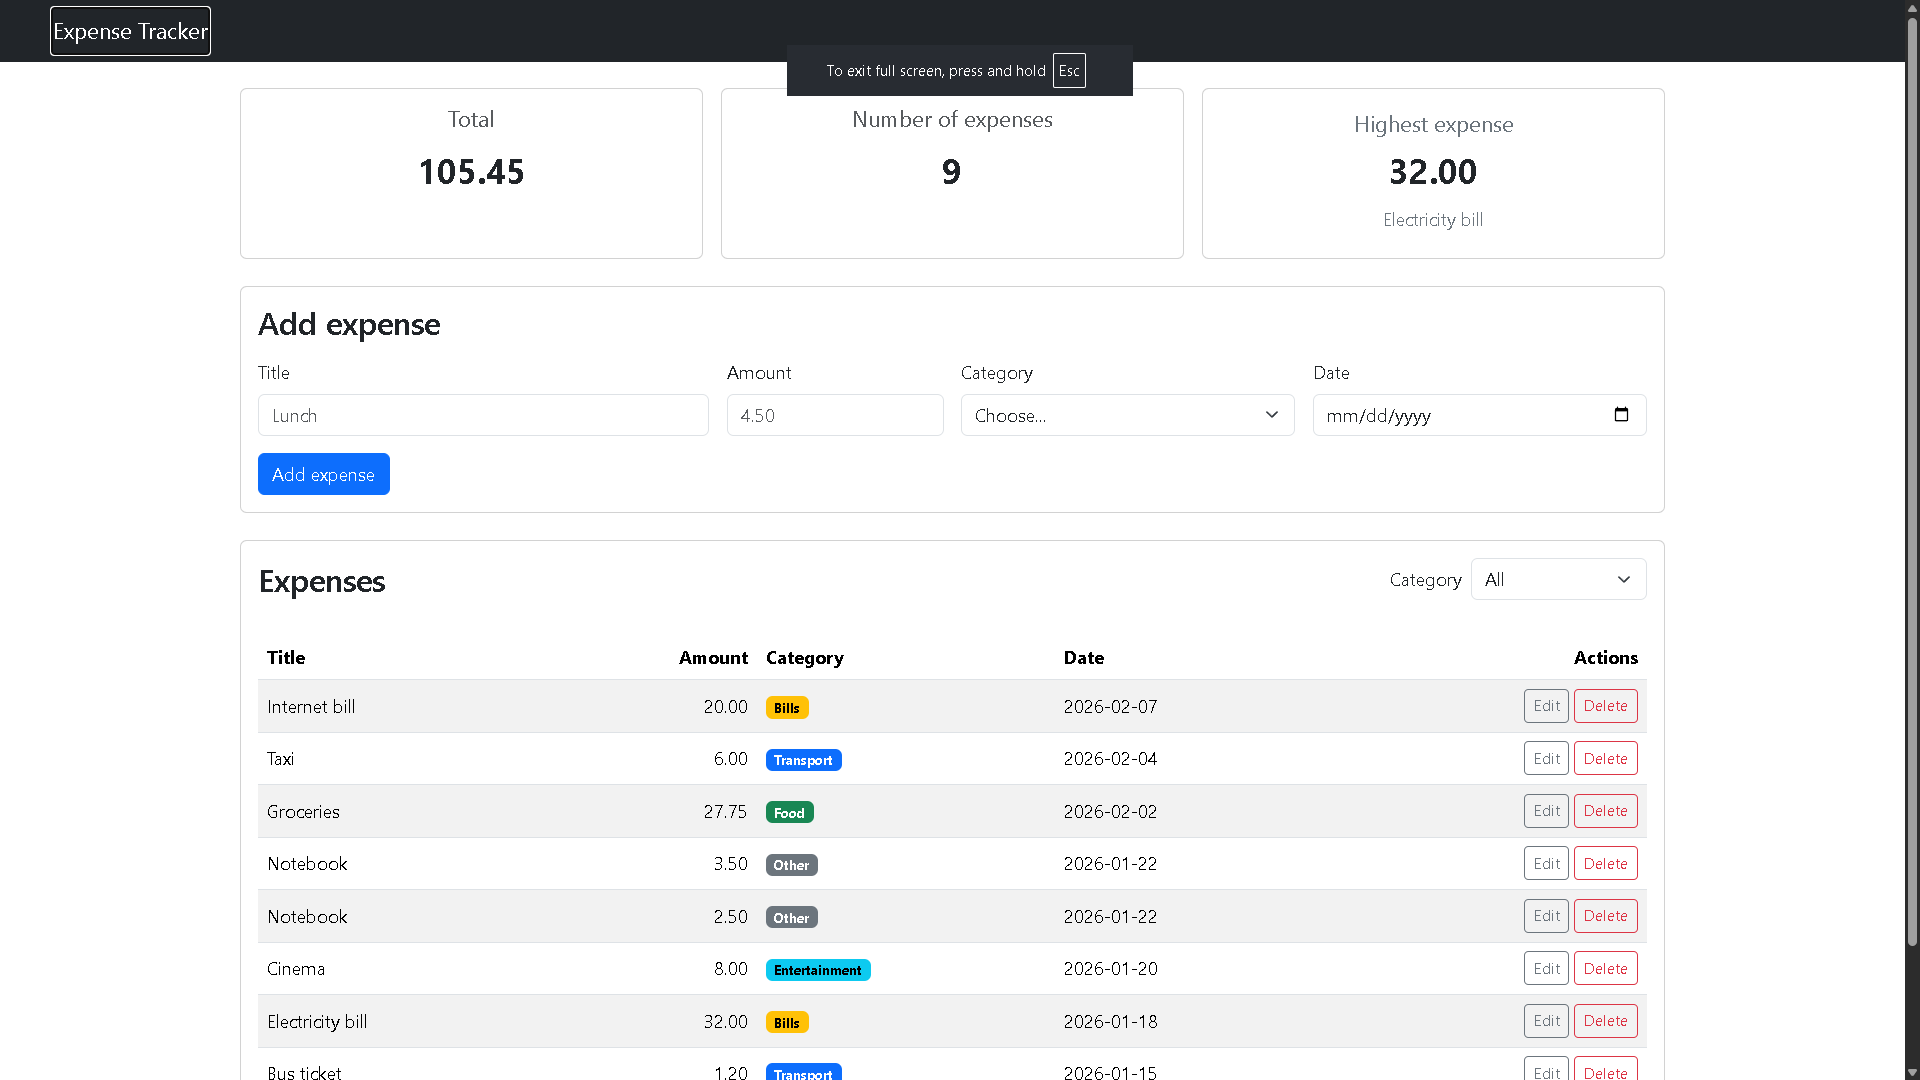
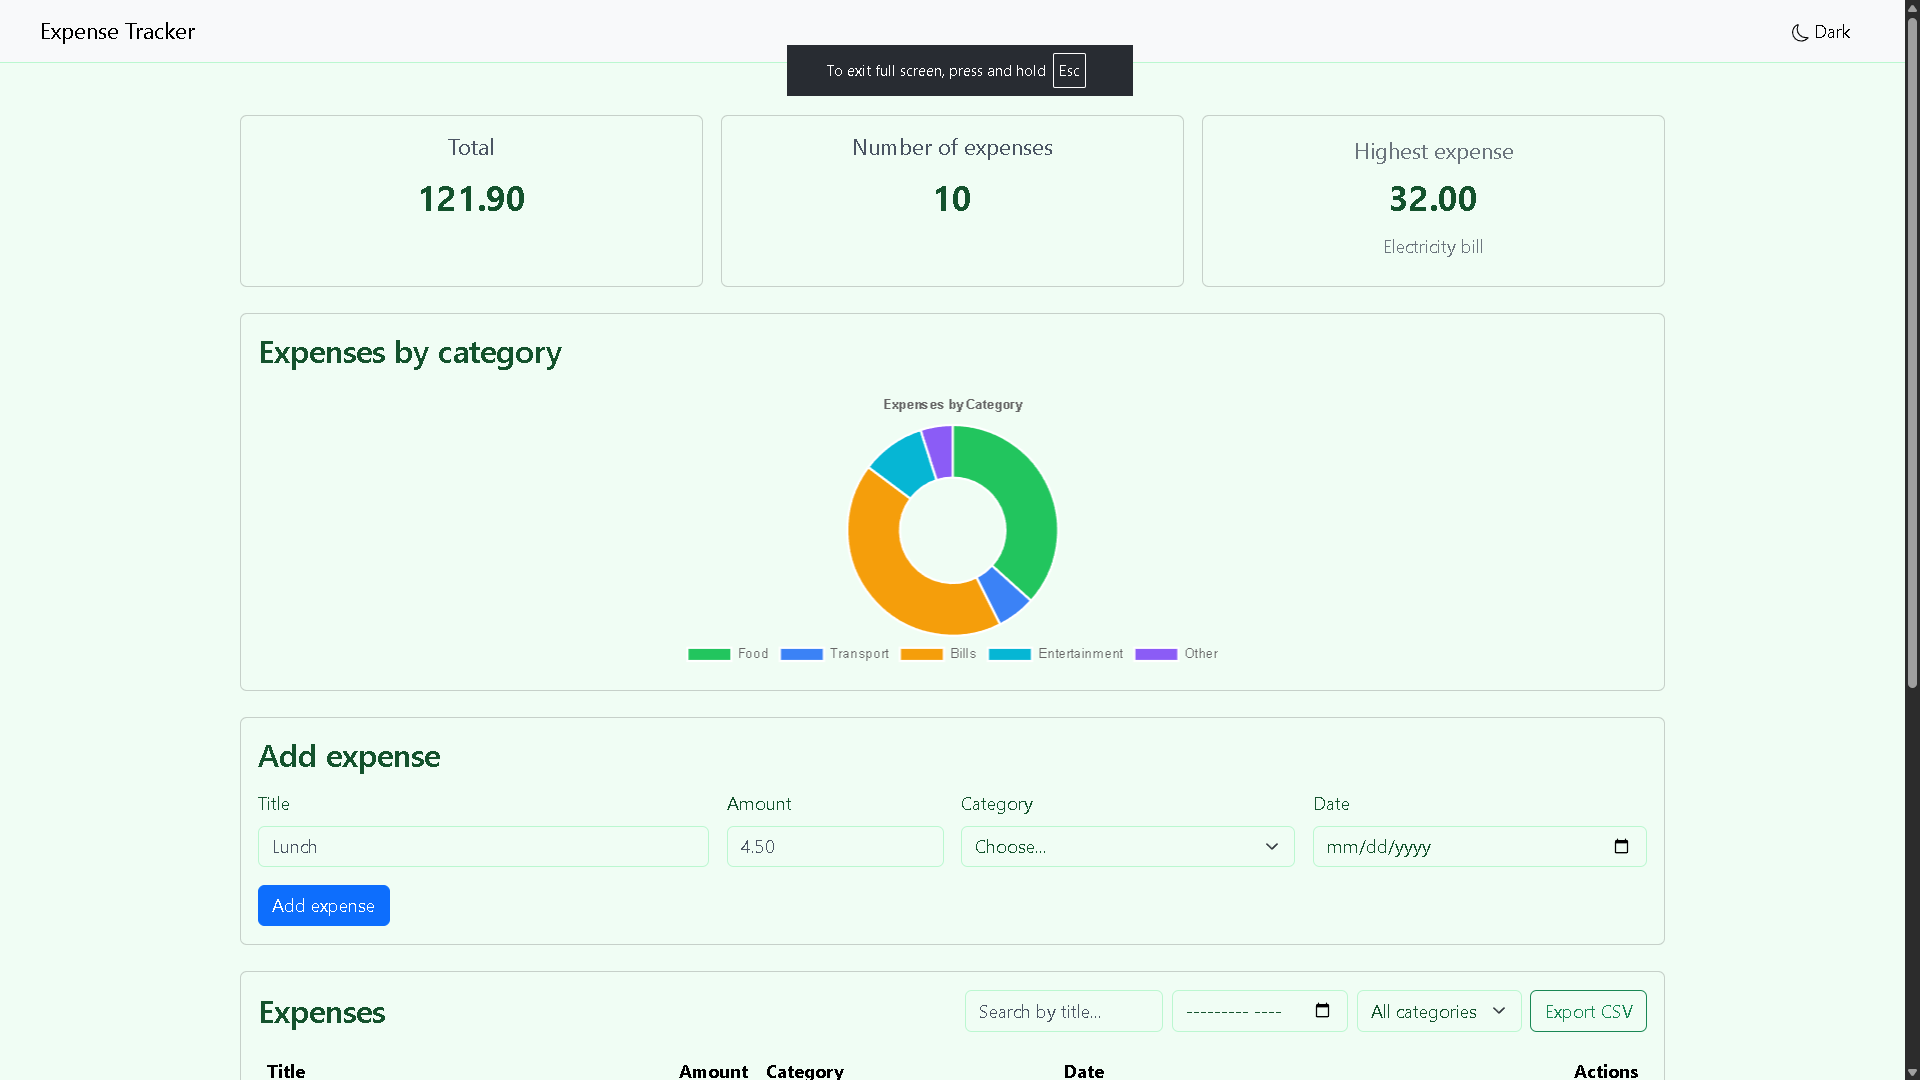
add and update images folder and the readme file

diff --git a/README.md b/README.md
@@ -11,7 +11,6 @@ The data is stored in a PostgreSQL database and served through a Node.js + Expre
 🔗 **Live Demo / Video:**  
 [Add your Google Drive link here]
 
-> Upload a short video or extra screenshots of the working app to Google Drive and paste the public link above.
 
 ---
 
@@ -20,17 +19,22 @@ The data is stored in a PostgreSQL database and served through a Node.js + Expre
 ### Desktop - Light Mode
 ![Desktop Light Mode](images/desktop.png)
 
+### Desktop - Light Mode - Table
+![Desktop Light Mode](images/desktop-table.png)
+
 ### Desktop - Dark Mode
+![Desktop Dark Mode](images/desktop-dark.png)
+
+### Desktop - Dark Mode -Table
 ![Desktop Dark Mode](images/desktop-dark.png)
 
 ### Mobile View
 ![Mobile](images/mobile.png)
+![Mobile](images/mobile-2.png)
 
 ### Mobile Table
 ![Mobile Table](images/mobile-table.png)
 
-> Put your screenshot files inside the `images` folder.  
-> Replace the file names above if your images have different names.
 
 ---
 
@@ -104,8 +108,8 @@ expense-tracker/
 │   ├── server.js
 │   ├── package.json
 │   ├── schema.sql
-│   └── .env.example
-├── images/               ← screenshots go here
+│   └── test-screenshots/
+├── images/               
 └── README.md
 ```
 
@@ -128,22 +132,6 @@ Once the pattern of “send request → refresh from the server” was clear, th
 
 ## Author
 
-Your Name  
+Omar salah mohammad shilbaya
 Dalil Academy – Full Stack Web Development
 ```
-
-The file is ready at:
-
-**`/home/workdir/artifacts/README.md`**
-
-You can download it and replace your current README with this one.
-
-### Quick checklist of what I added:
-- Demo section with placeholder for Google Drive link
-- Better Screenshots section (with dark mode + notes)
-- Clear separation between Required Features and Bonus Features
-- Project Structure section
-- Tech Stack section
-- Kept your original “hardest part” text (you can edit it later if you want)
-
-Would you like me to change anything else in it?
